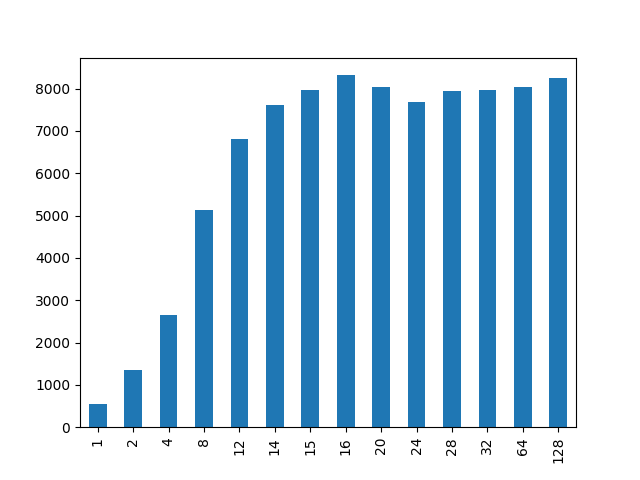
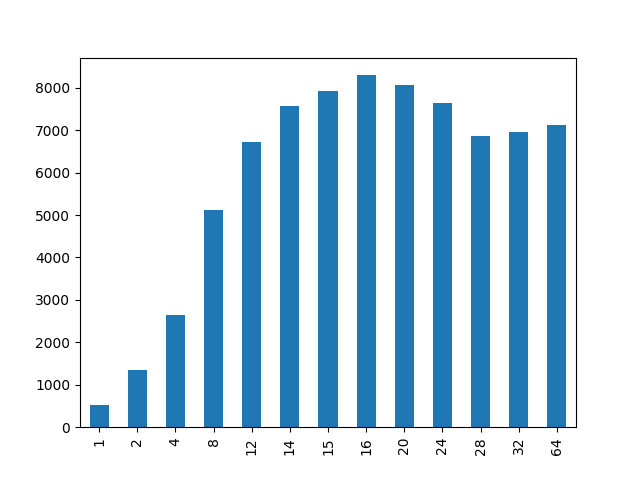
Updated report about optimization

diff --git a/code/pc/multi_threaded_bcrypt/gen_stats.py b/code/pc/multi_threaded_bcrypt/gen_stats.py
@@ -4,9 +4,7 @@ import pandas as pd
 import time
 
 bin = "bcrypt_multicore"
-cpu_count = [1, 2, 4, 8, 12, 14, 15, 16, 20, 24, 28, 32, 64, 128]
-
-
+cpu_count = [1, 2, 4, 8, 12, 14, 15, 16, 20, 24, 28, 32, 64]
 
 def run_subprocess(bin_name, arg1, arg2):
         start = time.time()

diff --git a/docs/projet_bachelor/journal.md b/docs/projet_bachelor/journal.md
@@ -21,14 +21,14 @@ Il n'est pas possible d'instancier plus, non pas à cause d'un manque de ressour
 
 | Freq (MHz) 	| WNS (1 Quadcore) 	| Quadcores Max. 	| Utilisations (%)         	| WNS   	| Hashrate (cost : 5) 	|
 |------------	|------------------	|----------------	|--------------------------	|-------	|---------------------	|
-| 100        	| 5.698            	| 36             	| BRAM : 97.50, LUT : 54   	| 0.988 	| 22'180 H/s          	|
-| 200        	| 1.237            	| 36             	| BRAM : 97.50, LUT : 54   	| 0.388 	| 440369 H/s          	|
-| 250        	| 0.43             	| 20            	| BRAM : 54.17, LUT : 30    | 0.171    	| -                   	|
+| 100        	| 5.698            	| 36             	| BRAM : 97.50, LUT : 68   	| 0.988 	| 22'180 H/s          	|
+| 200        	| 1.237            	| 36             	| BRAM : 97.50, LUT : 68   	| 0.388 	| 44'369 H/s          	|
+| 250        	| 0.43             	| 30            	| BRAM : 81.25, LUT : 57    | 0.166    	| 46'208 H/s          	|
 | 275        	| 0.294            	| -              	| -                        	| -     	| -                   	|
 | 300        	| 0.082            	| 5              	| BRAM : 13.54, LUT : 7.87 	| 0.007 	| 9241 H/s            	|
 | 325        	| -0.153           	| 0              	| 0                        	| X     	| -                   	|
 
-On peut voir déjà que à la même fréquence que la Nexys Video, on est plus vraiment limité par les contraintes de timings mais par les ressources. On arrive donc à instancier **13** Quadcores en plus.
+On peut voir déjà que à la même fréquence que la Nexys Video, on est plus vraiment limité par les contraintes de timings mais par les ressources. On arrive donc à instancier **14** Quadcores en plus.
 
 Le résultat le plus surprenant, c'est à quelle point le système semble marcher à 200 MHz.
 
@@ -57,9 +57,10 @@ Hash per second: 534.544511
 ## RDV
 
 Liste des sujets :
- - Chercher la fréquence la plus élévée avec le plus de quadcore
- - Faire des recherches sur l'utilisation des macros pour le routage (pour définir des blocs)
- - Vérifier que le design ne soit pas optimisé dû au hash qui a été hardcodé
+- Chercher la fréquence la plus élévée avec le plus de quadcore ([voir tableau](#kintex-ultrascale))
+
+- Faire des recherches sur l'utilisation des macros pour le routage (pour définir des blocs)
+- Vérifier que le design ne soit pas optimisé dû au hash qui a été hardcodé
 - Faire des mesures pour le code C
 - Mettre en place une communication UART pour initialiser les quadcores
 - Mettre en place un protocole de communication avec de la synchronisation et gestion d'erreur pour l'UART
@@ -73,3 +74,15 @@ Dans mon cas, j'ai un **AMD Ryzen 7 4800U** avec **8 Cores** et **2 Threads par 
 J'ai ainsi fait des mesures ou j'ai executé mon programme qui fait le hash 10'000 fois pour différents nombres de threads.
 
 ![](assets/stats.png)
+
+Dans ce graphique, on peut voir les différents hashrate déduit de mon programme par rapport au nombre de threads instanciés. Le Hashrate le plus élevé est celui avec 16 threads, cela coincide avec les spécifications de mon processeur.
+
+## Verification optimisation design
+
+Afin de vérifier que le design n'est pas optimisé, j'ai décidé de remplacer le hash en constante par une entrée.
+
+J'ai lancé une synthèse avec 36 Quadcores, qui est le maximum possible sur la Kyntex est le nombre de LUT utilisés a augmenté de 15%.
+
+Maintenant que je sais que une optimisation a bien lieu, je dois refaire l'implémentation afin de vérifier que les résultats précedents sont toujours valables.
+
+Pour ce faire, j'ai changé de méthode pour pouvoir faire l'implémentation. J'ai trouvé un exemple qui utilise les attributs afin d'empecher l'optimisation sur les signaux.
